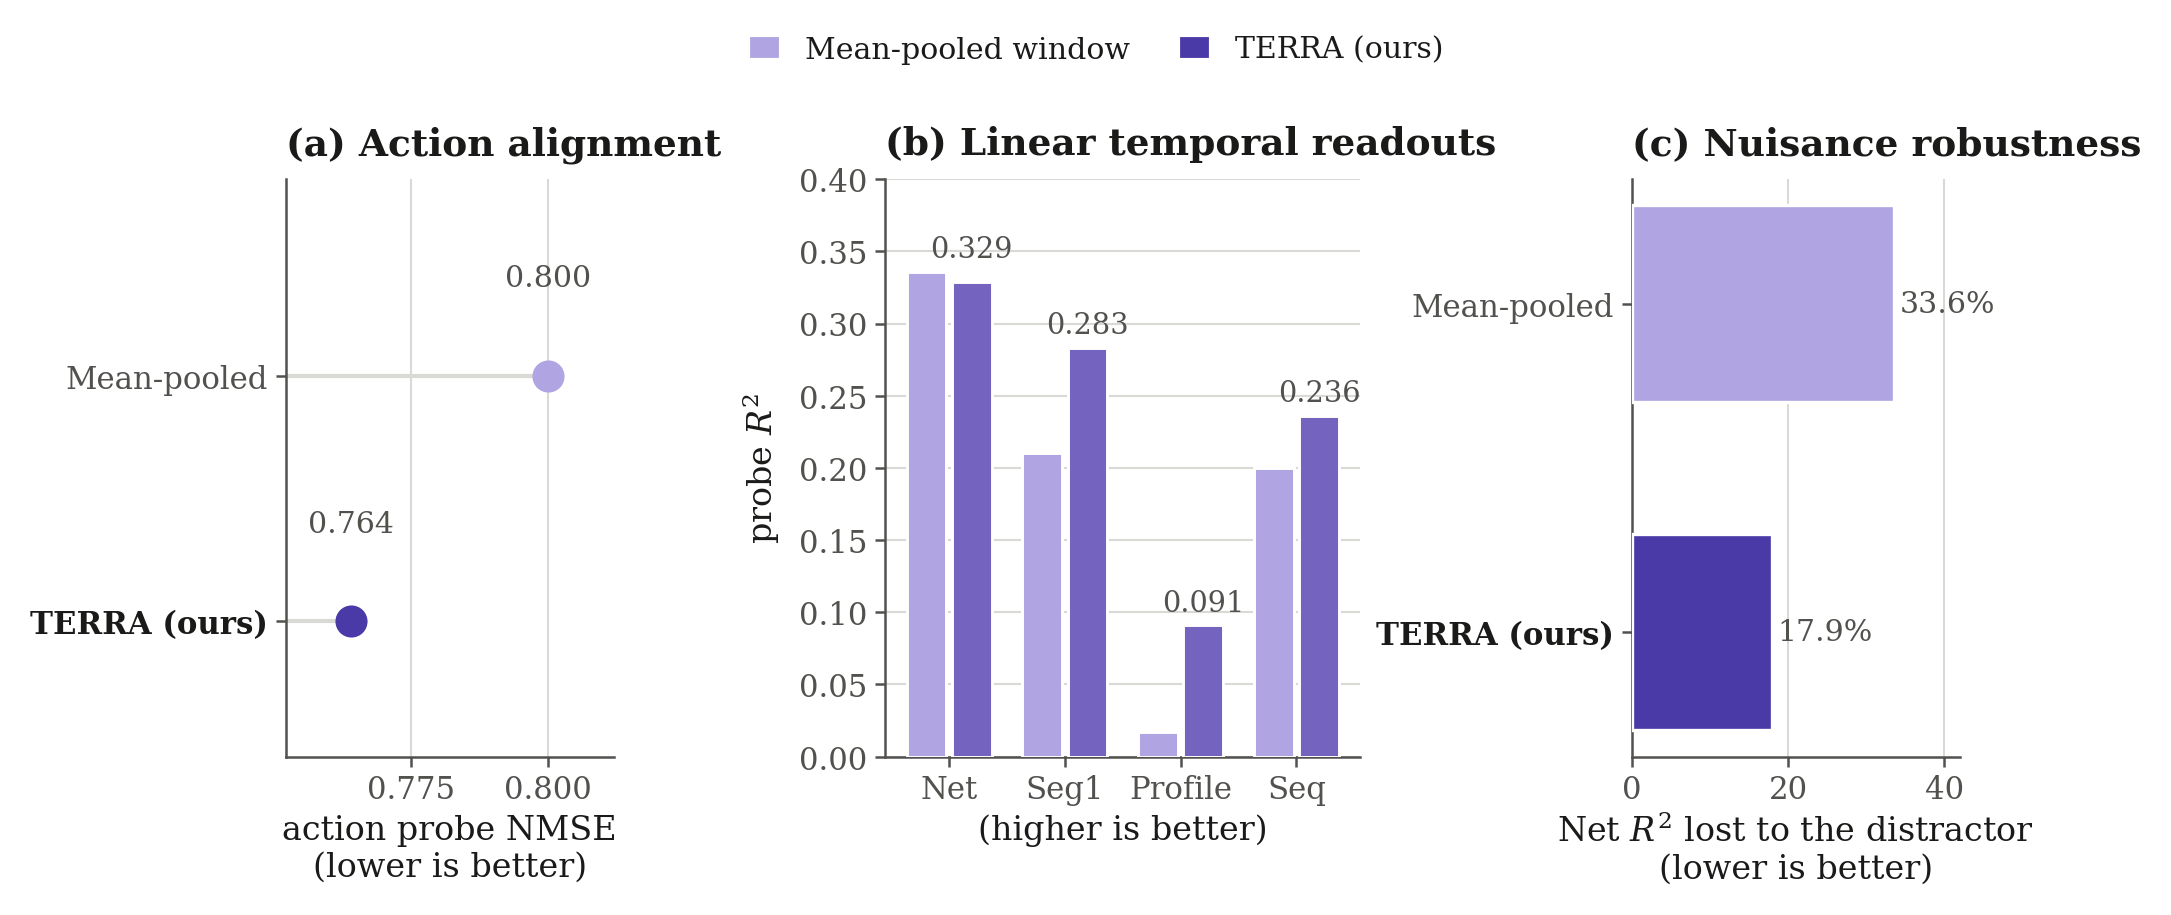
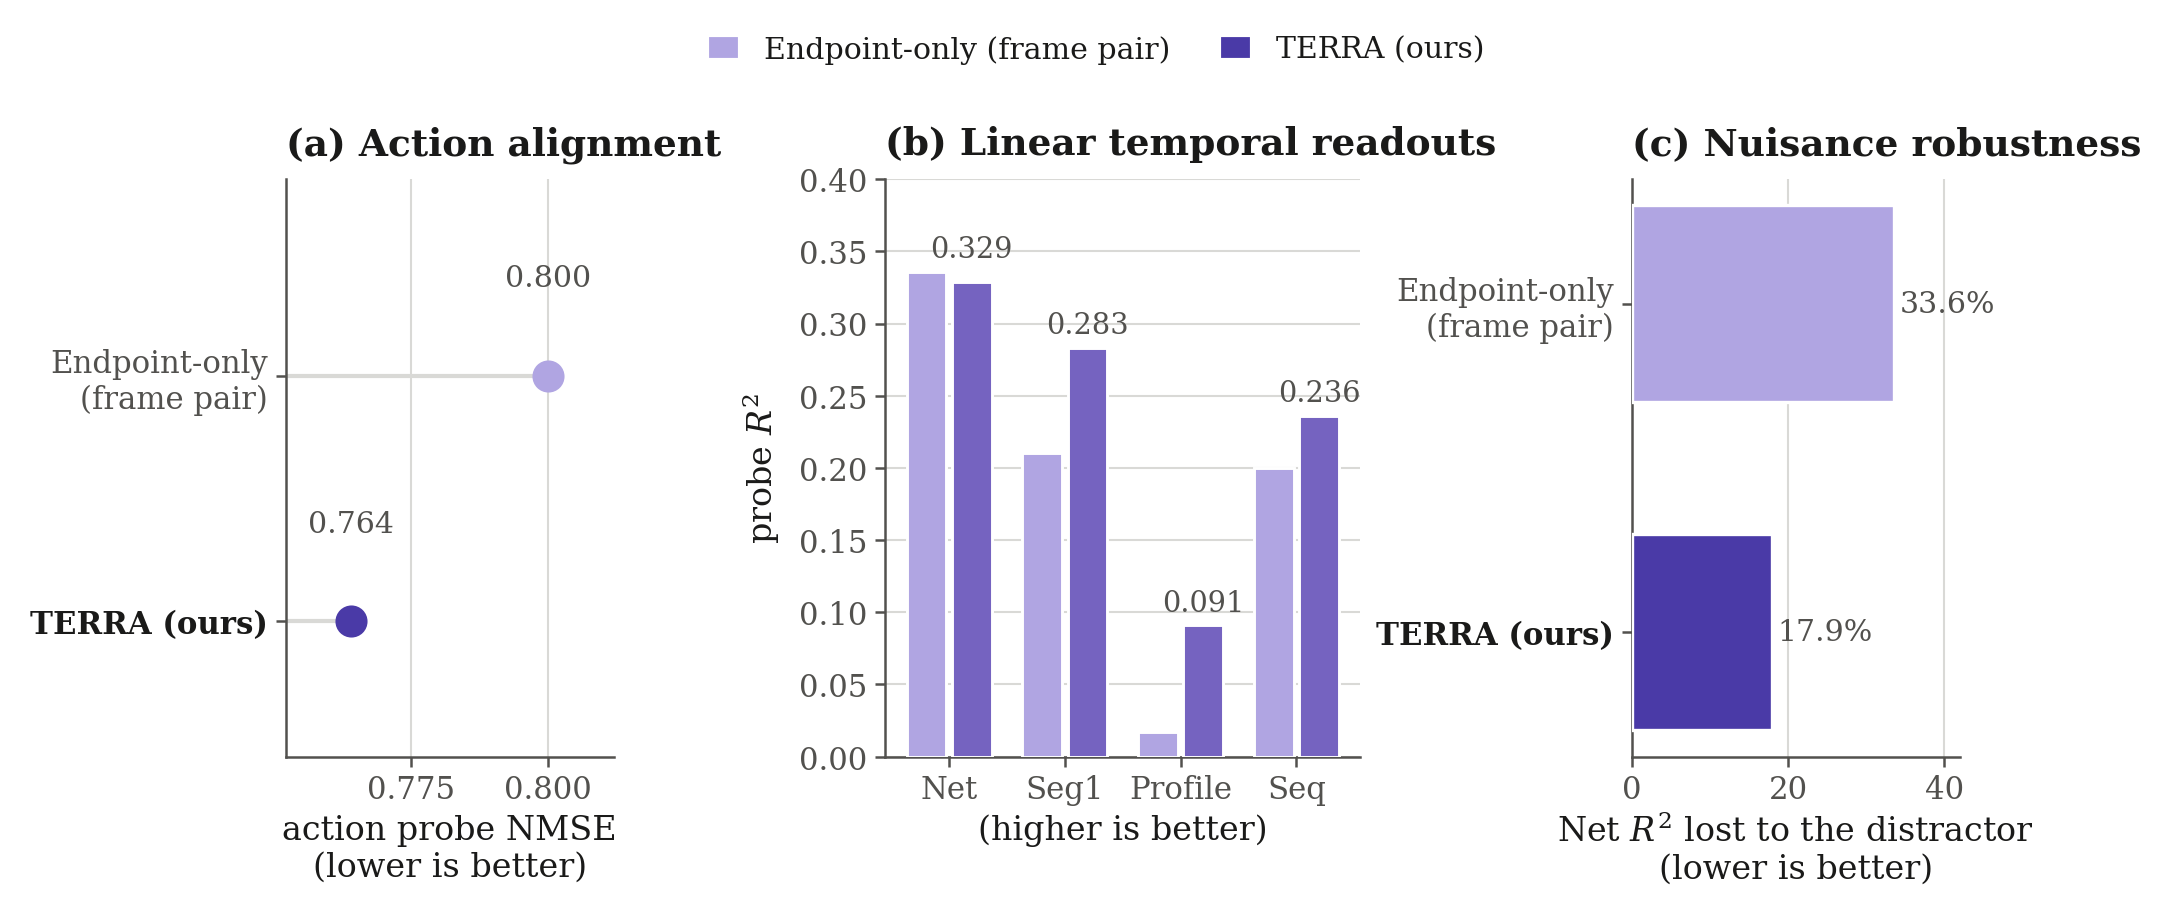
figures: name the pooled arm what it is -- an endpoint (frame-pair) code
Mean-pooling the within-window differences is the endpoint difference, K^-1 sum_k dF_k = (F_T-F_0)/K
(common/features.py::pooled_cells), which is exactly what a frame-pair latent action model reads.
Calling it "mean-pooled" made the control look self-invented; "Endpoint-only (frame pair)" states
the field's construction it stands for.

Claude-Session: https://claude.ai/code/session_01D41cpGfwM76yTZbfdphopa

Changed region(s): [[0.3086, 0.0306, 0.6789, 0.0612], [0.0309, 0.3672, 0.1234, 0.459], [0.6481, 0.306, 0.7407, 0.3672]]

diff --git a/acdc_la/figures/make_paper_figures.py b/acdc_la/figures/make_paper_figures.py
@@ -45,8 +45,11 @@ CLOSED = {
 # ------------------------------------------------------------------------- DATA 2: our ablation ladder (Fig. 2)
 # Same tokenizer family, same data and budget; only the temporal/spatial factorisation changes.  No external method.
 SHOW_CELLWISE = False            # the earlier cell-wise tokenizer is cut from the paper; True restores the middle rung
+# "Endpoint-only" is not an invented control: mean-pooling the within-window differences IS the endpoint difference,
+# K^-1 sum_k dF_k = (F_T - F_0)/K  (common/features.py::pooled_cells), i.e. exactly what a frame-pair latent action
+# model reads from the window.  s1_mean and s1_dc agree within 0.01 on every probe target (LEDGER 2026-09-09).
 ABLATE = {                       # label:        (Net,   Seg1,  Profile, Seq,   drop %)
-    "Mean-pooled window":        (0.336, 0.210, 0.017, 0.200, 33.6),   # [real] s1_mean_1ep: no temporal decomposition
+    "Endpoint-only (frame pair)": (0.336, 0.210, 0.017, 0.200, 33.6),  # [real] s1_mean_1ep: window read as a pair
     "Cell-wise (earlier)":       (0.324, 0.264, 0.085, 0.224, 28.9),   # [real] s1_acdc_1ep: per-cell MLP  -- cut
     "TERRA (ours)":              (0.329, 0.283, 0.091, 0.236, 17.9),   # [real] latp2_inv
 }
@@ -220,7 +223,7 @@ def representation_ablation(out):
     """Fig. 2 -- our tokenizer only: what the temporal factorisation buys.  No external method appears."""
     fig, axes = plt.subplots(1, 3, figsize=(7.2, 2.5), gridspec_kw={"width_ratios": [1.0, 1.45, 1.0], "wspace": 0.72})
     labs = list(ABLATE)
-    short = {"Mean-pooled window": "Mean-pooled", "Cell-wise (earlier)": "Cell-wise\n(earlier)",
+    short = {"Endpoint-only (frame pair)": "Endpoint-only\n(frame pair)", "Cell-wise (earlier)": "Cell-wise\n(earlier)",
              "TERRA (ours)": "TERRA (ours)"}
     short = [short[l] for l in labs]
     ramp = RAMP if len(labs) == 3 else [RAMP[0], RAMP[2]]
